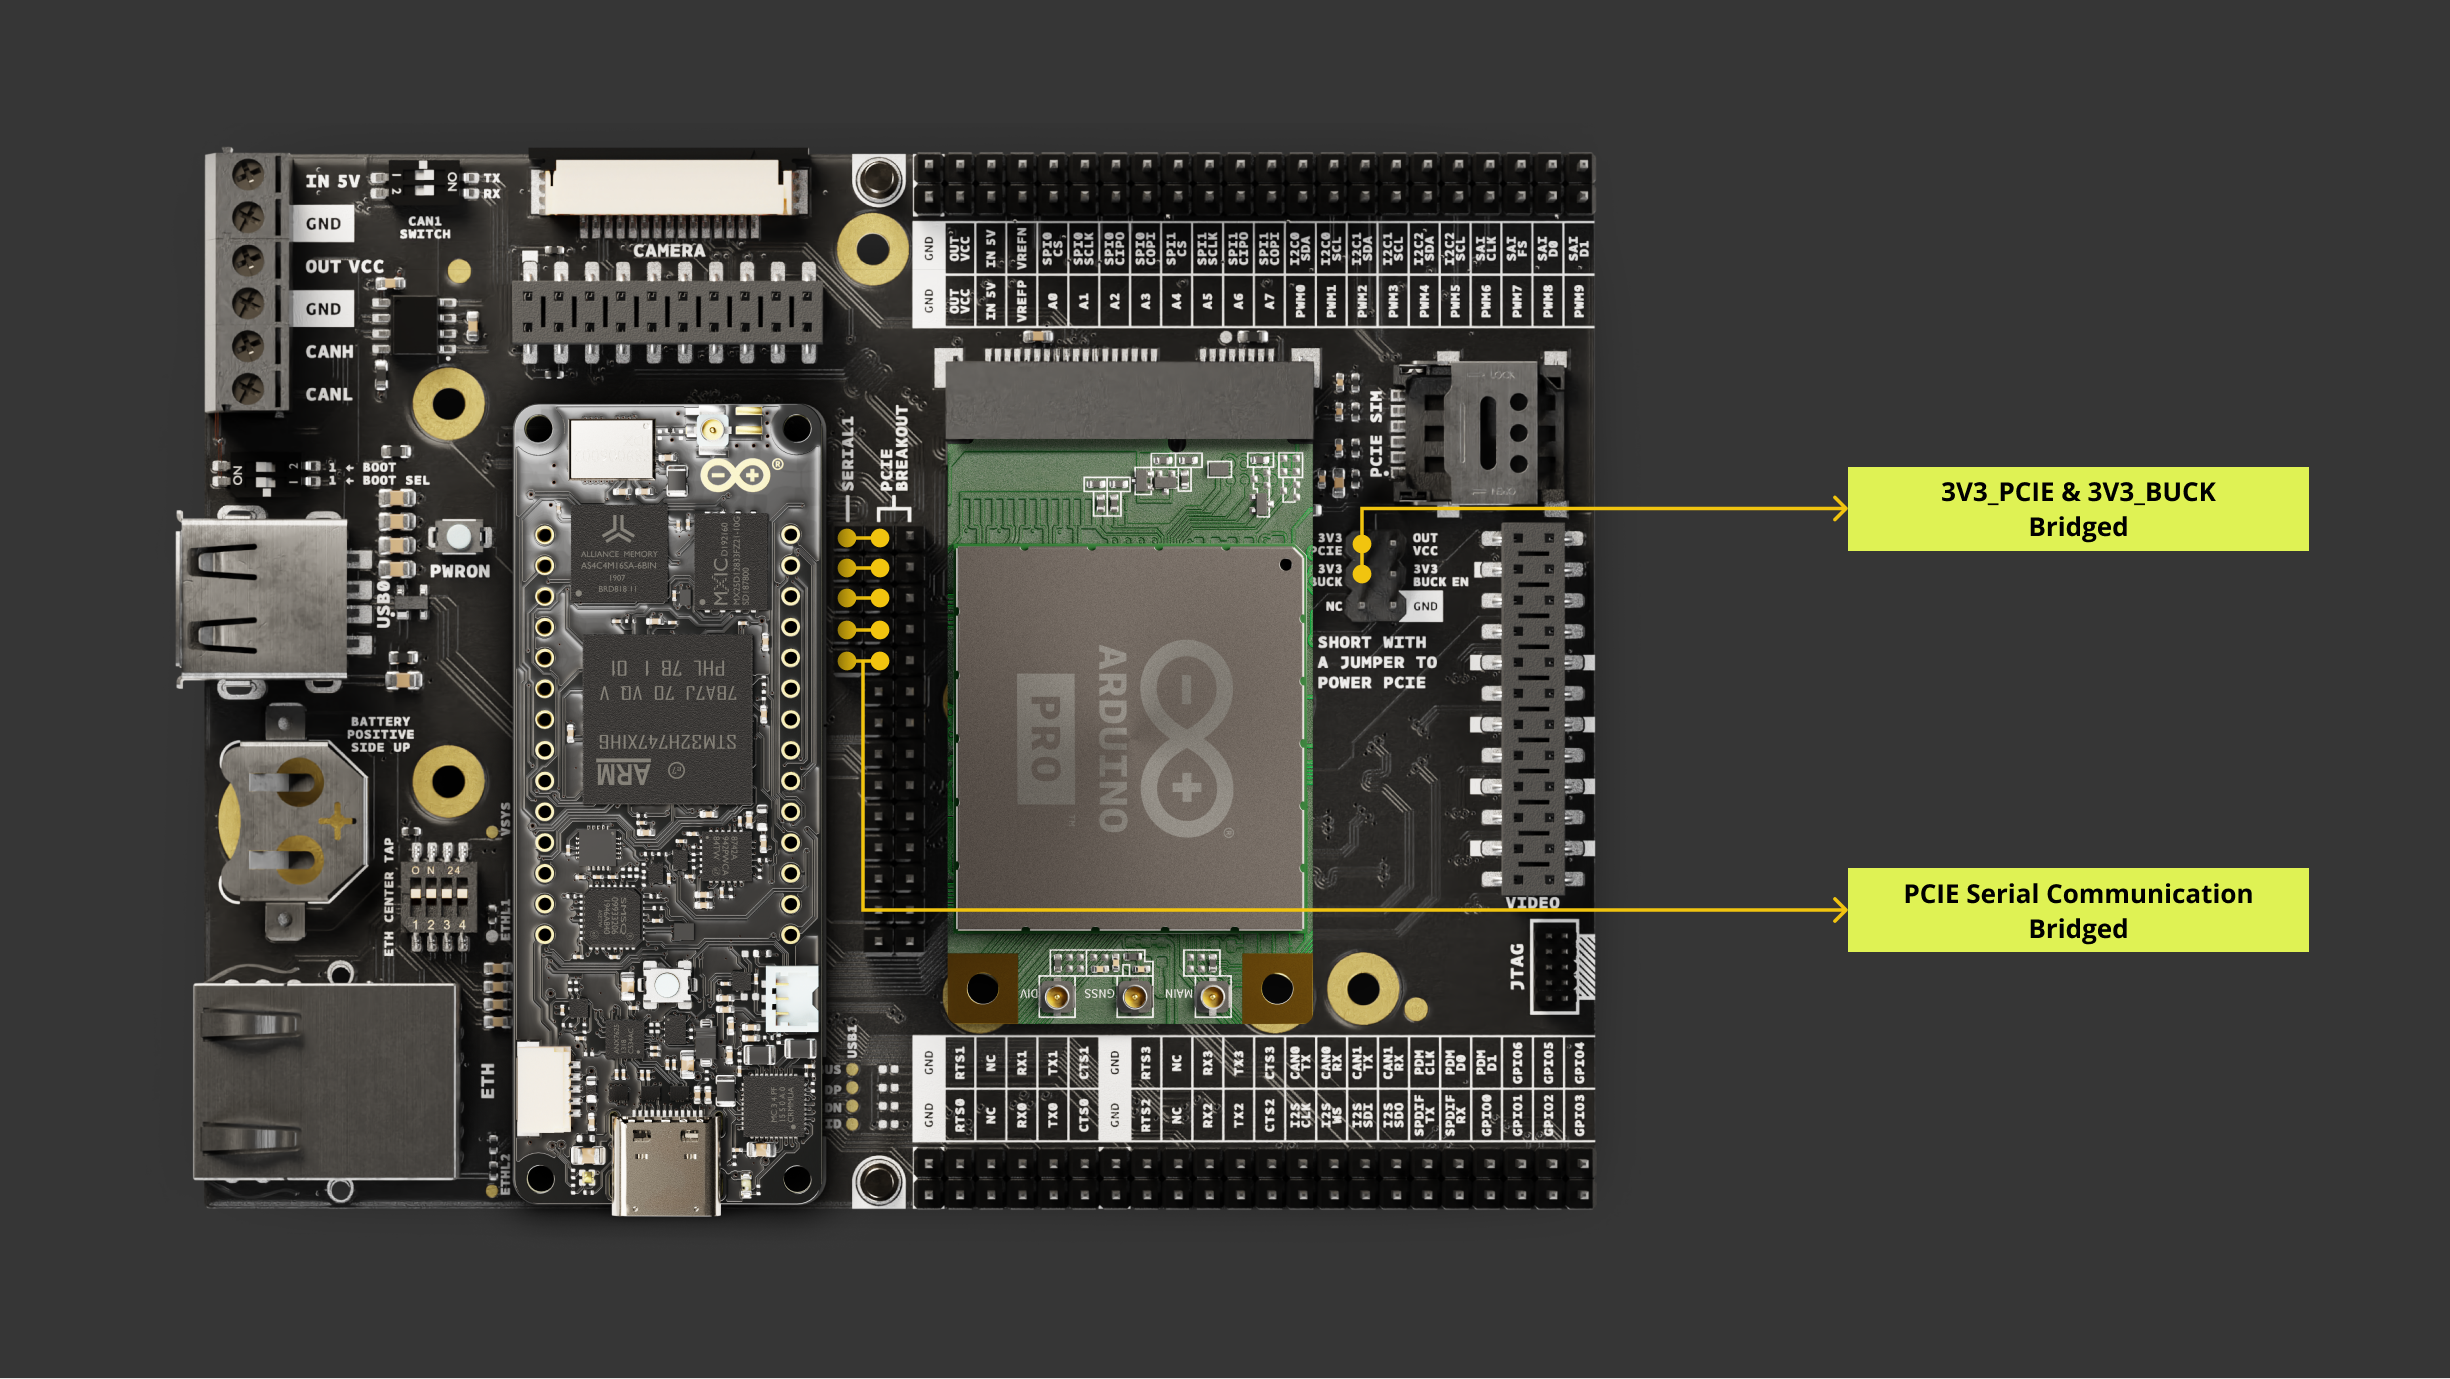
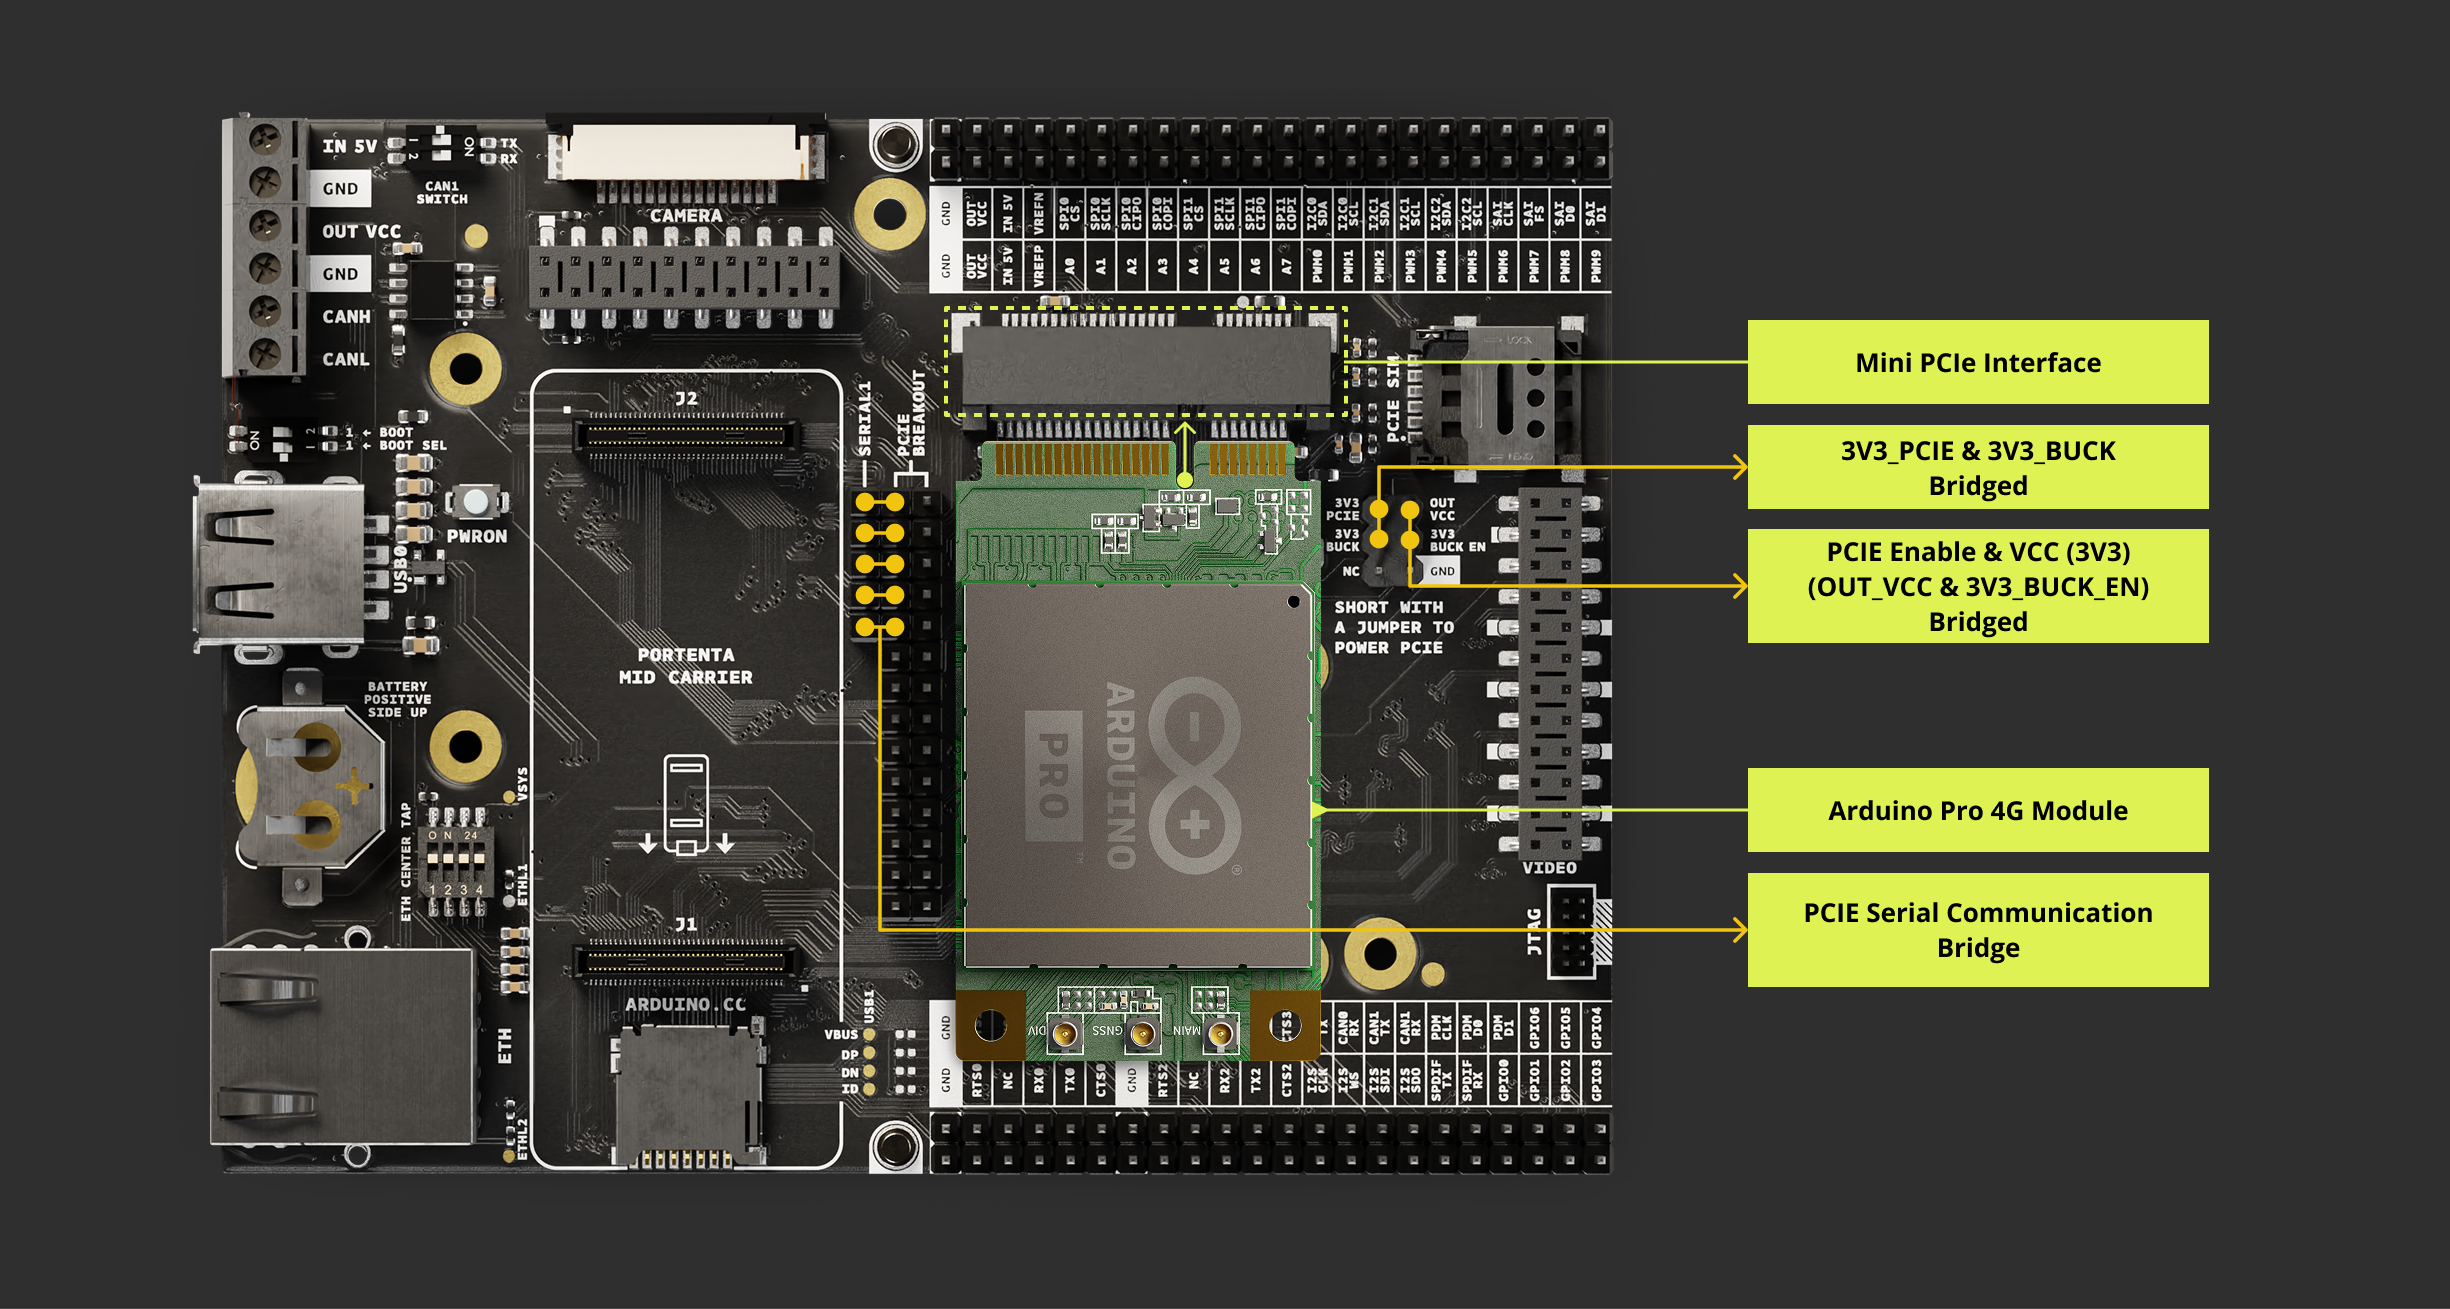
Initial commit - User manual Pro 4G Module section update pin config

diff --git a/content/hardware/04.pro/carriers/portenta-mid-carrier/tutorials/user-manual/content.md b/content/hardware/04.pro/carriers/portenta-mid-carrier/tutorials/user-manual/content.md
@@ -659,7 +659,8 @@ To accommodate the power requirements and ensure reliable connectivity, jumper c
 This precaution is necessary to prevent wire overheating and ensure reliable power transmission for the connected Mini PCIe-compatible module, such as Cat.4 modems. A minimum requirement to set the mini PCIe interface with the Portenta Mid Carrier consists of:
 
 - **3V3 PCIE** pin connected to **3V3 BUCK** pin
-- Properly inserted mini PCIe module, e.g., Pro 4G GNSS Module Global (EG25) / Pro 4G EMEA (EC200A-EU) Module
+- **OUT VCC** pin connected to **3V3 BUCK EN** pin
+- Properly inserted mini PCIe module, e.g., [Pro 4G GNSS Module Global (EG25)](https://store.arduino.cc/products/4g-module-global) / [Pro 4G EMEA (EC200A-EU)](https://store.arduino.cc/products/4g-module-emea) Module
 
 ***Please use a 5.0 V external power source when using an Arduino Pro 4G Module (EMEA / GNSS Global) or any other mPCIe modules due to their high power consumption. This is important for maintaining a stable power supply to the Portenta SOM and the carrier, particularly for extended periods of use.***
 
@@ -2501,6 +2502,23 @@ These parameters are always required to use the SIM functionalities within the m
 It will show a similar result when the Portenta C33 is used as the core device with the Portenta Mid Carrier and the Pro 4G Module:
 
 ![Portenta C33 & Pro 4G Module - HTTPClient Example](assets/portentaMIDcarrier_c33_mpcie_4gmodem_result.png)
+
+In case the example encounters a `301` error like the following:
+
+```bash
+<head><title>301 Moved Permanently</title></head>
+```
+
+Try updating the `server[]` and `resource[]` to use a different HTTP endpoint of your preference, or use this testing service:
+
+```
+const char server[]   = "httpbin.org";
+const char resource[] = "/get";
+```
+
+You should see a result similar to the following:
+
+![Portenta C33 & Pro 4G Module - HTTPClient Example](assets/portentaMIDcarrier_c33_mpcie_4gmodem_result_2.png)
 
 You may find additional examples within the library to try various functionalities such as deleting SMS, getting GPS location, and connecting to web servers securely:
 
